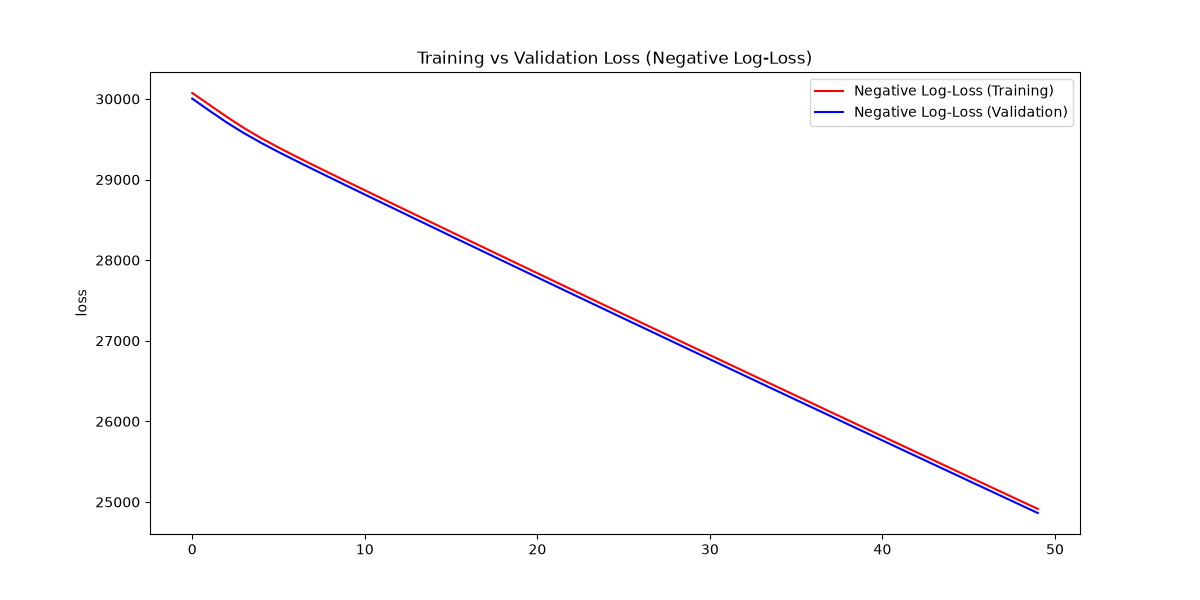
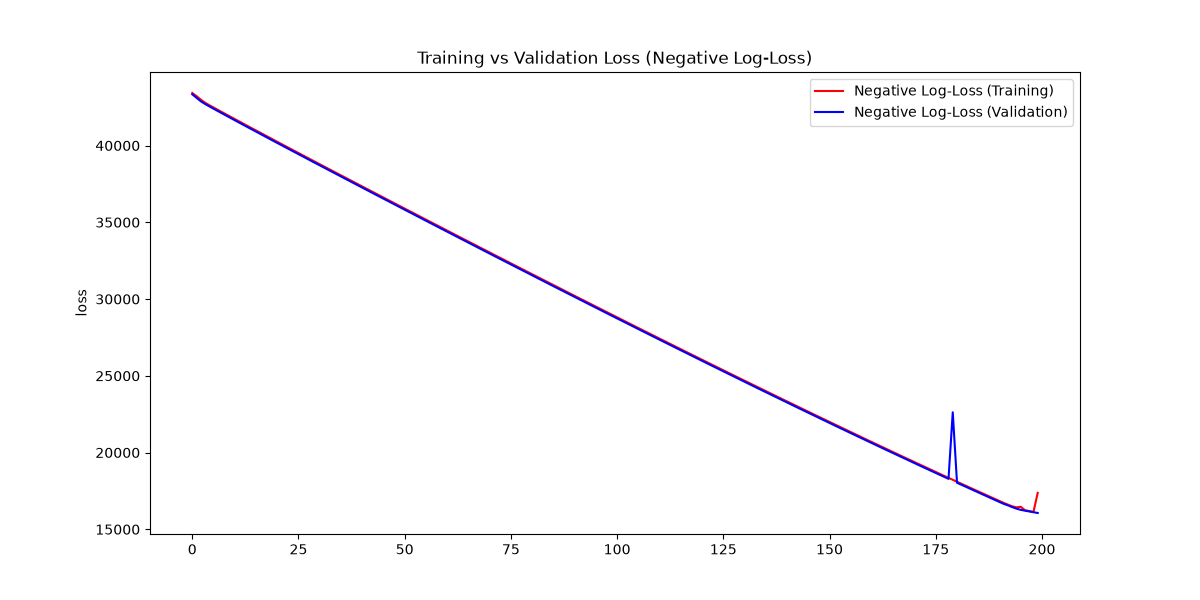
Updated BNN.py to show predicted means and standard deviations

diff --git a/BNN.py b/BNN.py
@@ -17,6 +17,7 @@ from data_processing import x_train,x_test,y_train,y_test
 import pandas as pd
 import matplotlib.pyplot as plt
 import seaborn as sns
+import numpy as np
 
 '''model = tf.keras.models.Sequential([
      tf.keras.layers.Input(shape=(x_train.shape[1],)),
@@ -30,6 +31,8 @@ import seaborn as sns
 model_bayes = tf.keras.Sequential([
     tfp.layers.DenseFlipout(128, activation='relu'),
     tfp.layers.DenseFlipout(64, activation='relu'),
+    tfp.layers.DenseFlipout(50, activation='relu'),
+     tfp.layers.DenseFlipout(50, activation='relu'),
     tfp.layers.DenseFlipout(32, activation='relu'),
 
     tfp.layers.DenseFlipout(2),  # outputs params for a distribution
@@ -72,23 +75,26 @@ model_bayes.compile(
     loss=gaussian_nll,
     metrics=[mean_mae, mean_mse]
 )
-history = model_bayes.fit(x_train,y_train,validation_split=0.2,epochs=50,verbose=0,shuffle=True)
+history = model_bayes.fit(x_train,y_train,validation_split=0.2,epochs=200,verbose=0,shuffle=True)
 
 performance_df = pd.DataFrame(history.history)
 
 y_pred = model_bayes.predict(x_test,verbose=0)
+y_pred_means,y_pred_std = unpack_predictions(y_pred)
 
 actual_v_predicted = {
     
 }
 #
 actual_v_predicted.setdefault("Actual",y_test.to_numpy())
-actual_v_predicted.setdefault("Predicted",y_pred.ravel())
+actual_v_predicted.setdefault("Predicted Mean",np.array(y_pred_means).ravel())
+actual_v_predicted.setdefault("Predicted Std",np.array(y_pred_std).ravel())
 
-#a_v_p = pd.DataFrame(actual_v_predicted)
+
+a_v_p = pd.DataFrame(actual_v_predicted)
 #print(actual_v_predicted)
-#print(a_v_p)
-print(performance_df)
+print(a_v_p)
+#print(performance_df)
 fig,ax = plt.subplots(figsize=(12,6))
 sns.lineplot(data=performance_df,x=performance_df.index.values,y='loss',color='red',label="Negative Log-Loss (Training)",ax=ax)
 sns.lineplot(data=performance_df,x=performance_df.index.values,y='val_loss',color='blue',label="Negative Log-Loss (Validation)",ax=ax)
